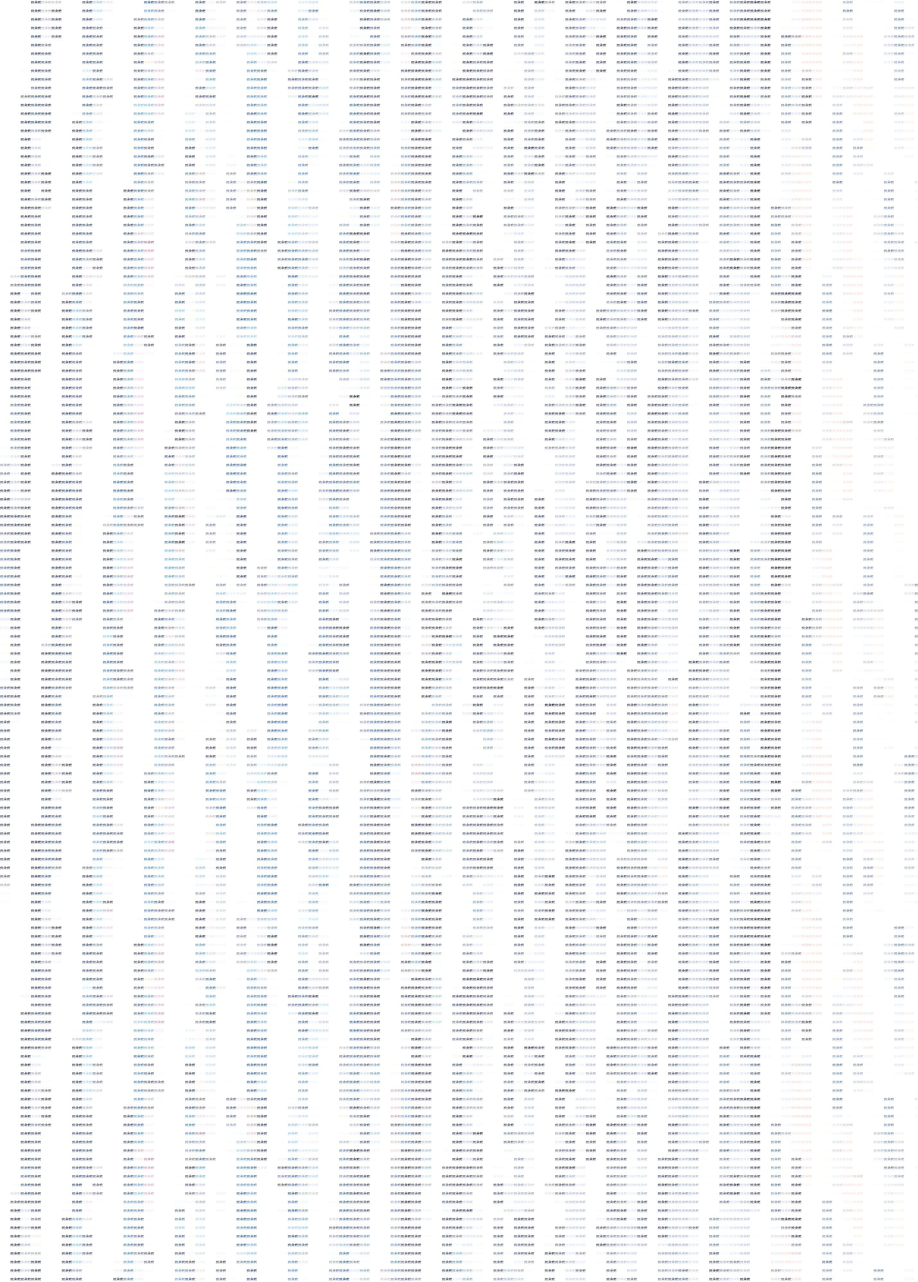
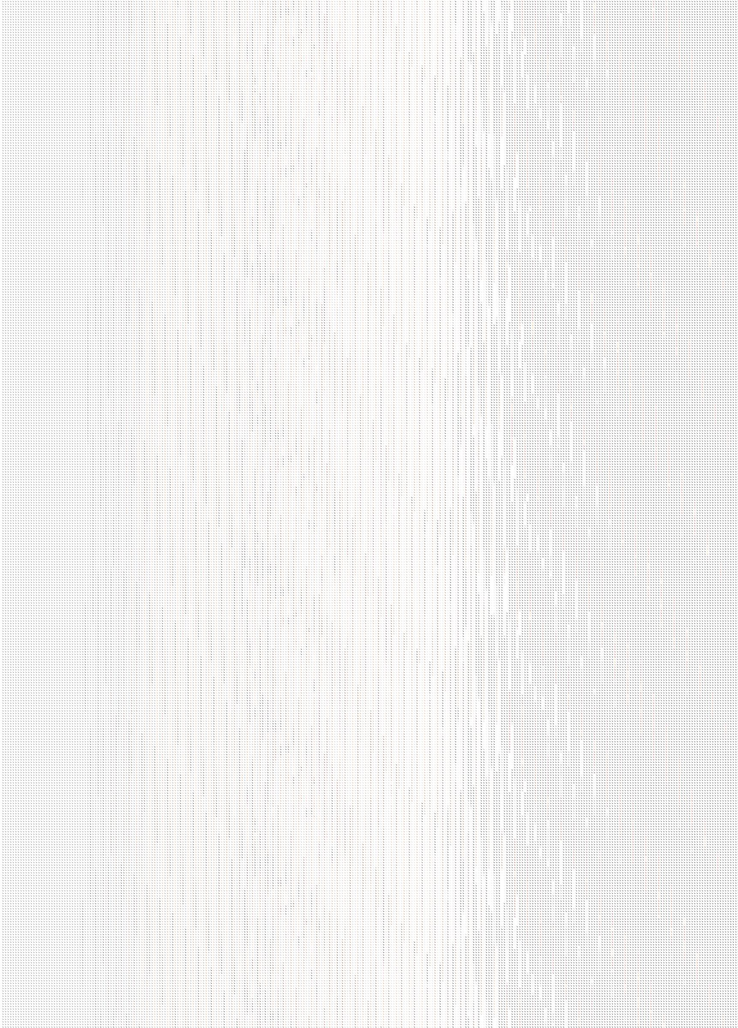
change
算法 可能有点问题？
没有考虑边界？

Changed region(s): [[0.0, 0.0, 1.0, 1.0]]

diff --git a/1/2/PaChong.py b/1/2/PaChong.py
@@ -69,7 +69,7 @@ def InputYourMessage():
 
 
 def readPicture():
-    im = Image.open('picture.jpg')
+    im = Image.open('6.jpg')
 
     img_data=im.getdata()
     img_array = list(img_data)
@@ -78,18 +78,23 @@ def readPicture():
     theImageWide = im.getbbox()[2]
     theImageLeath = im.getbbox()[3]
     
-    print  theImageWide,theImageLeath
+    #print  theImageWide,theImageLeath
     
-    large = 8
+    large = 6
     
     NewImage = Image.new( 'RGB', (theImageWide*large,theImageLeath*large),(255, 255, 255) )
-    font = ImageFont.truetype('STXIHEI.TTF', 8)
+    font = ImageFont.truetype('STXIHEI.TTF', 4)
     draw = ImageDraw.Draw(NewImage)
     
+    size = draw.textsize(unicode("1s",'UTF-8'),font = font)
+    print size #（40，10）
     for i in range(theImageWide*large):
-        for j in range(theImageLeath*large):
-            if  ( (i%24) == 0 ) and ((j%20) == 0 ):
-                draw.text((i, j), unicode("珂朵莉",'UTF-8'), font = font, fill=img_array[(i/large)*theImageLeath+j/large] )
+        for j in range(theImageLeath*large):                       
+            #if i % 4 == 0:
+            if (i+1) % 6 == 0 and j%6 == 0 :
+                fill = img_array[(i/large)*theImageLeath+j/large]
+                #print fill
+                draw.text((i, j), unicode("1s",'UTF-8'), font = font, fill=fill )
     
     
     NewImage.save('test.jpg', 'jpeg');
